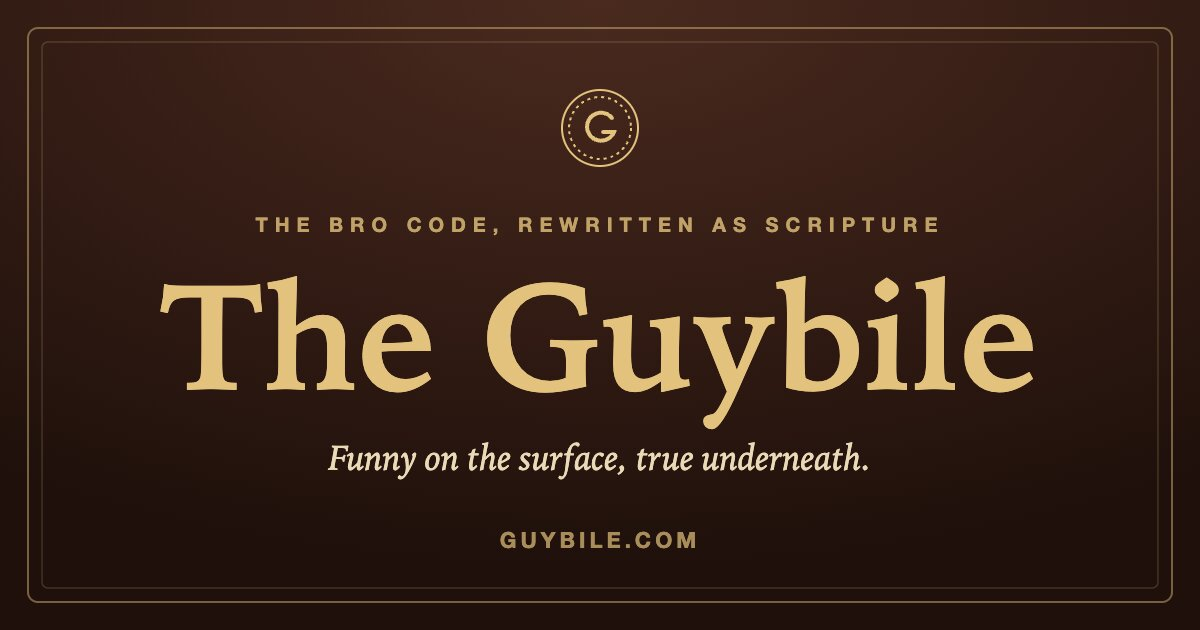
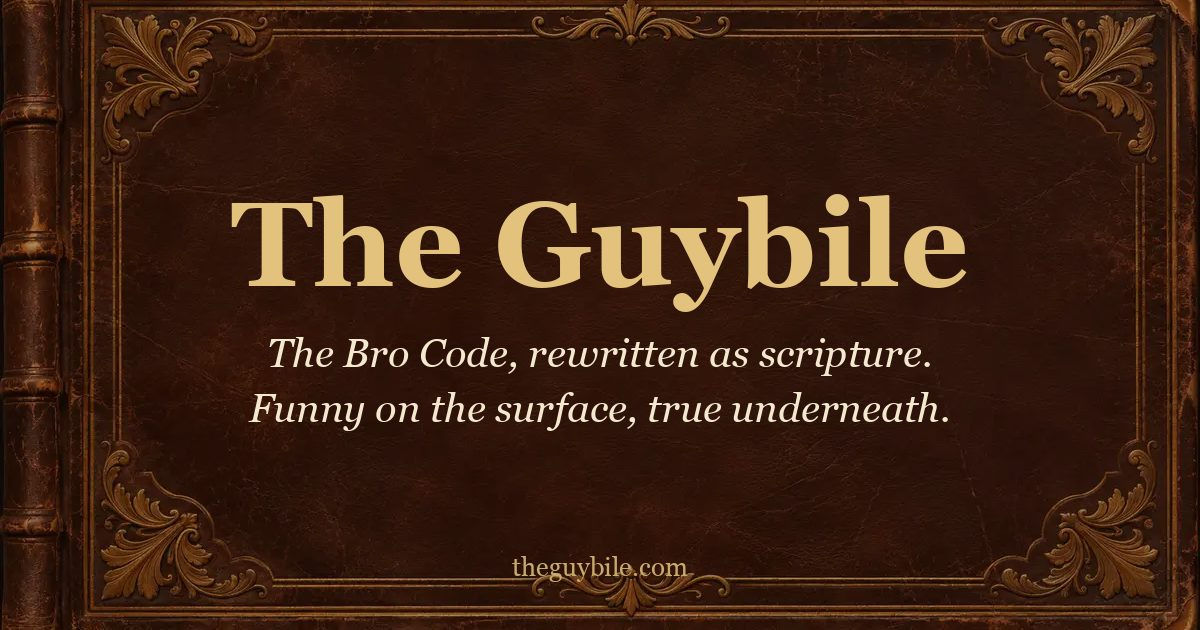
Every verse gets its own share page and preview card
Shared verse links now point to v/<ch>-<v>.html, which shows that verse's
card in WhatsApp/X/iMessage previews and forwards readers to the verse.
The cards are drawn in CI by scripts/verse_cards.py; og.jpg redrawn with the cover art.

Changed region(s): [[0.0, 0.0, 1.0, 1.0], [0.5858, 0.8143, 0.6167, 0.8444]]

diff --git a/src/app.js b/src/app.js
@@ -96,7 +96,7 @@
     var t = c.textContent.trim();
     return (/^["“]/.test(t) ? t : "“" + t + "”") + " — Guybile " + v.dataset.ref;
   }
-  function verseUrl(v) { return location.href.split("#")[0] + "#" + v.id; }
+  function verseUrl(v) { return new URL("v/" + v.dataset.ref.replace(":", "-") + ".html", location.href).href; }
   d.addEventListener("click", function (e) {
     var v = e.target.closest && e.target.closest(".v");
     if (e.target.closest && (e.target.closest("a.ref") || e.target.closest(".vact"))) return;
@@ -193,7 +193,7 @@
     x.fillText(location.hostname && location.hostname !== "localhost" ? location.hostname.toUpperCase() : "GUYBILE.COM", W / 2, H - 110);
     return c;
   }
-  function vlink(v) { return new URL(v[1] + ".html#v" + v[0].replace(":", "-"), location.href).href; }
+  function vlink(v) { return new URL("v/" + v[0].replace(":", "-") + ".html", location.href).href; }
   function canShareFiles() {
     try { return !!(navigator.canShare && typeof File === "function" &&
       navigator.canShare({ files: [new File([""], "t.png", { type: "image/png" })] })); } catch (e) { return false; }

diff --git a/scripts/verse_cards.py b/scripts/verse_cards.py
@@ -1,0 +1,121 @@
+"""Draw the link-preview card for every verse: dist/v/<ch>-<v>.jpg (1200x630).
+
+Run after scripts/build.py. Needs Pillow (pip install pillow).
+
+    python3 scripts/verse_cards.py          # all verses
+    python3 scripts/verse_cards.py --og     # also redraw src/og.jpg (the site-wide card)
+"""
+import json
+import sys
+from pathlib import Path
+
+from PIL import Image, ImageDraw, ImageFont
+
+ROOT = Path(__file__).resolve().parent.parent
+DIST = ROOT / "dist"
+W, H = 1200, 630
+CREAM, GILT, INK = (244, 232, 206), (226, 194, 125), (30, 14, 8)
+
+SERIF = [  # first one found wins
+    "/usr/share/fonts/opentype/ebgaramond/EBGaramond12-Regular.otf",
+    "/usr/share/fonts/truetype/dejavu/DejaVuSerif.ttf",
+    "/System/Library/Fonts/Supplemental/Georgia.ttf",
+]
+SERIF_IT = [
+    "/usr/share/fonts/opentype/ebgaramond/EBGaramond12-Italic.otf",
+    "/usr/share/fonts/truetype/dejavu/DejaVuSerif-Italic.ttf",
+    "/System/Library/Fonts/Supplemental/Georgia Italic.ttf",
+]
+SERIF_B = [
+    "/usr/share/fonts/opentype/ebgaramond/EBGaramond12-Bold.otf",
+    "/usr/share/fonts/truetype/dejavu/DejaVuSerif-Bold.ttf",
+    "/System/Library/Fonts/Supplemental/Georgia Bold.ttf",
+]
+
+
+def font(paths, size):
+    for p in paths:
+        if Path(p).exists():
+            return ImageFont.truetype(p, size)
+    return ImageFont.load_default(size)
+
+
+def backdrop():
+    bg = Image.open(ROOT / "src" / "art" / "cover.webp").convert("RGB")
+    s = max(W / bg.width, H / bg.height)
+    bg = bg.resize((round(bg.width * s), round(bg.height * s)), Image.LANCZOS)
+    x, y = (bg.width - W) // 2, (bg.height - H) // 2
+    bg = bg.crop((x, y, x + W, y + H))
+    shade = Image.new("RGB", (W, H), INK)
+    return Image.blend(bg, shade, 0.38)
+
+
+def wrap(draw, text, f, width):
+    lines, line = [], ""
+    for word in text.split():
+        t = (line + " " + word).strip()
+        if draw.textlength(t, font=f) <= width:
+            line = t
+        else:
+            if line:
+                lines.append(line)
+            line = word
+    if line:
+        lines.append(line)
+    return lines
+
+
+def centered(draw, y, text, f, fill):
+    draw.text(((W - draw.textlength(text, font=f)) / 2, y), text, font=f, fill=fill)
+
+
+def card(text, ref, chapter, base):
+    im = base.copy()
+    d = ImageDraw.Draw(im)
+    quote = f"“{text.strip(chr(34) + chr(8220) + chr(8221))}”"
+    for size in (54, 50, 46, 42, 38, 34, 31, 28, 25):
+        f = font(SERIF, size)
+        lines = wrap(d, quote, f, 860)
+        lh = round(size * 1.32)
+        if len(lines) * lh <= 330:
+            break
+    small = font(SERIF_IT, 28)
+    label = font(SERIF_B, 30)
+    block = len(lines) * lh
+    y = (H - block) // 2 - 22
+    for ln in lines:
+        centered(d, y, ln, f, CREAM)
+        y += lh
+    centered(d, y + 26, f"Guybile {ref}", label, GILT)
+    if chapter:
+        centered(d, y + 66, chapter, small, (214, 196, 160))
+    centered(d, H - 58, "theguybile.com", font(SERIF, 24), (200, 170, 110))
+    return im
+
+
+def site_card(base):
+    im = base.copy()
+    d = ImageDraw.Draw(im)
+    centered(d, 175, "The Guybile", font(SERIF_B, 120), GILT)
+    centered(d, 330, "The Bro Code, rewritten as scripture.", font(SERIF_IT, 40), CREAM)
+    centered(d, 385, "Funny on the surface, true underneath.", font(SERIF_IT, 40), CREAM)
+    centered(d, H - 78, "theguybile.com", font(SERIF, 26), (200, 170, 110))
+    return im
+
+
+def main():
+    base = backdrop()
+    if "--og" in sys.argv:
+        site_card(base).save(ROOT / "src" / "og.jpg", quality=82, optimize=True, progressive=True)
+        print("Wrote src/og.jpg")
+    verses = json.loads((DIST / "verses.json").read_text())
+    out = DIST / "v"
+    out.mkdir(exist_ok=True)
+    for ref, _slug, chapter, text in verses:
+        card(text, ref, chapter, base).save(out / f"{ref.replace(':', '-')}.jpg",
+                                             quality=60, optimize=True, progressive=True)
+    print(f"Drew {len(verses)} verse cards -> dist/v/")
+
+
+if __name__ == "__main__":
+    main()

diff --git a/scripts/build.py b/scripts/build.py
@@ -552,6 +552,36 @@ def main():
                 verses.append([f"{b['ch']}:{b['v']}", c["slug"], c["title"], txt])
     (DIST / "verses.json").write_text(json.dumps(verses, ensure_ascii=False, separators=(",", ":")))
 
+    # ---- one tiny page per verse, so a shared link previews that verse's card
+    #      (the card images themselves are drawn by scripts/verse_cards.py)
+    vdir = DIST / "v"
+    vdir.mkdir(exist_ok=True)
+    base = CONFIG.get("site_url", "").rstrip("/")
+    for ref, slug, ctitle, txt in verses:
+        key = ref.replace(":", "-")
+        target = f"{slug}.html#v{key}"
+        title = f"Guybile {ref}"
+        desc = esc(txt[:200])
+        img = f"{base}/v/{key}.jpg" if base else f"{key}.jpg"
+        (vdir / f"{key}.html").write_text(f"""<!doctype html>
+<html lang="en"><head><meta charset="utf-8">
+<meta name="viewport" content="width=device-width, initial-scale=1">
+<title>{esc(title)} · The Guybile</title>
+<meta name="description" content="{desc}">
+<meta name="robots" content="noindex, follow">
+<link rel="canonical" href="{base}/{target}">
+<meta property="og:type" content="article"><meta property="og:site_name" content="The Guybile">
+<meta property="og:title" content="{esc(title)} · {esc(ctitle)}">
+<meta property="og:description" content="{desc}">
+<meta property="og:url" content="{base}/v/{key}.html">
+<meta property="og:image" content="{img}"><meta property="og:image:width" content="1200"><meta property="og:image:height" content="630">
+<meta name="twitter:card" content="summary_large_image"><meta name="twitter:image" content="{img}">
+<meta http-equiv="refresh" content="0; url=../{target}">
+<script>location.replace("../{target}")</script>
+<style>body{{font:1.2rem/1.6 Georgia,serif;background:#f5eedf;color:#2b241d;max-width:34rem;margin:4rem auto;padding:0 1.25rem}}a{{color:#9a2a1c}}</style>
+</head><body><p>{esc(txt)}</p><p><a href="../{target}">{esc(title)} — read it in The Guybile</a></p></body></html>
+""")
+
     # ---- static assets
     for f in ("app.js", "icon.svg", "icon-192.png", "icon-512.png", "og.jpg"):
         if (SRC / f).exists():
